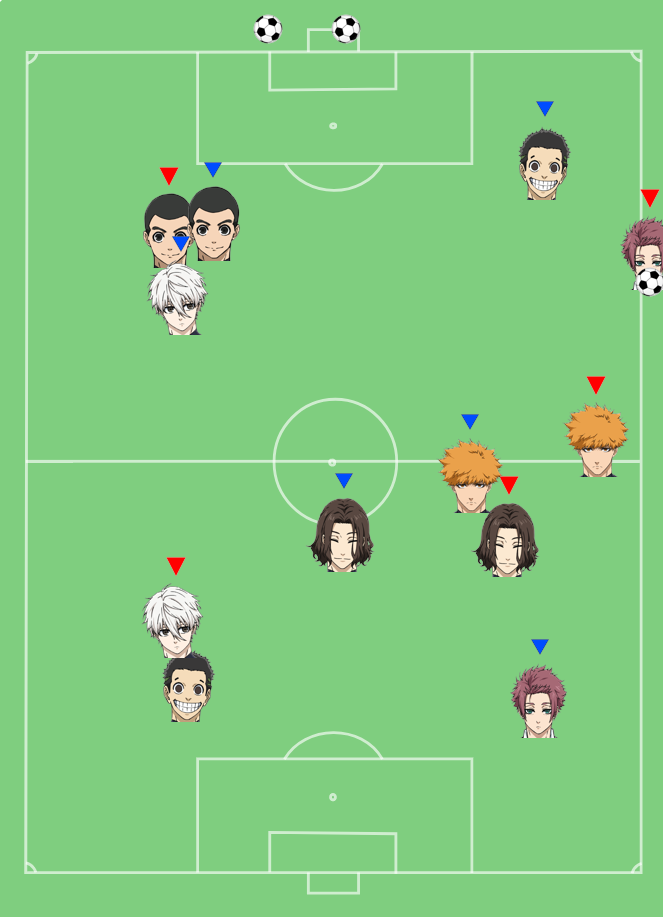
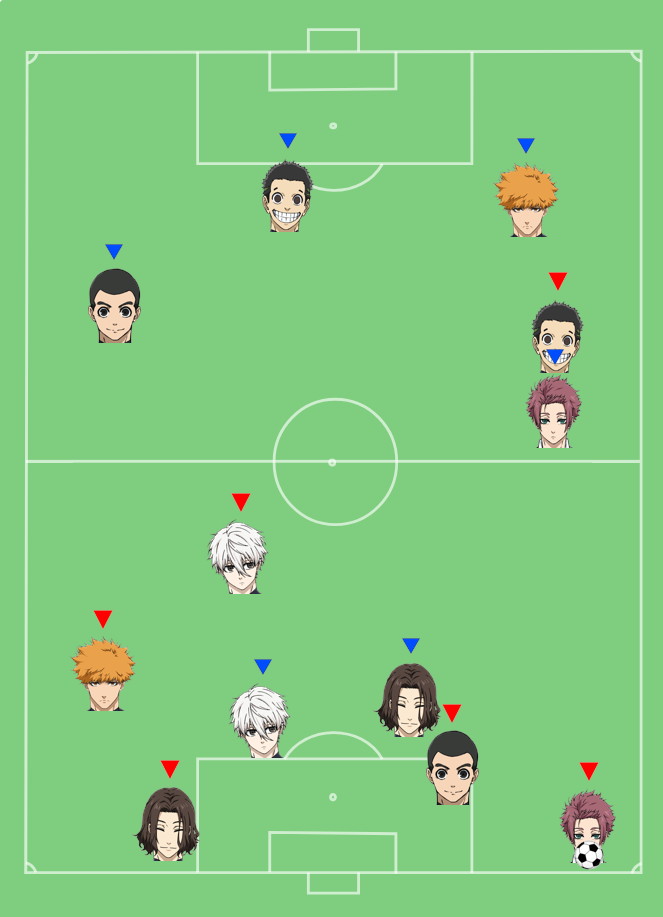
reposition players after a goal is scored

diff --git a/carousel.py b/carousel.py
@@ -26,13 +26,34 @@ class Carousel(View):
 
 
 class Game(View):
-    def __init__(self,  players, selected_player, ball, match, score_message):
+    def __init__(self, players, selected_player, match, score_message, img_result, field):
         super().__init__()
         self.players = players
         self.selected_player = selected_player
-        self.ball = ball
+        self.ball = Ball(
+            (self.selected_player.position[0] - 13, self.selected_player.position[1] + 15), "img/ball.png")
         self.match = match
         self.score_message = score_message
+        self.img_result = img_result
+        self.field = field
+
+    def reposition_players(self):
+        for player in self.players:
+            player.reposition()
+
+    def start_game(self):
+        self.ball.position = (
+            self.selected_player.position[0] - 13, self.selected_player.position[1] + 15)
+        superposer_images(self.img_result, self.field, self.players)
+        put_ball(self.img_result, self.ball.position)
+
+    def restart_game(self):
+        clear_field(self.field, self.img_result)
+        self.reposition_players()
+        self.ball.position = (
+            self.selected_player.position[0] - 13, self.selected_player.position[1] + 15)
+        superposer_images(self.img_result, self.field, self.players)
+        put_ball(self.img_result, self.ball.position)
 
     @discord.ui.button(emoji="⬅")
     async def button_left(self, interaction: Interaction, button: Button):
@@ -72,8 +93,7 @@ class Game(View):
     @discord.ui.button(label="Shoot ⚽", style=discord.ButtonStyle.primary, row=2)
     async def button_shoot(self, interaction: Interaction, button: Button):
         random_x = random.randint(240, 440)
-        interception_image_path = "img/red_circle.png"
-        put_ball(img_result,  (random_x, 14))
+
         pixels = get_pixels_on_line(self.ball.position, (random_x, 14))
         intercepted = False
 
@@ -81,42 +101,29 @@ class Game(View):
         for i in pixels:
             shifted_center = (closest_player(
                 self.players, i).position[0]-17, closest_player(self.players, i).position[1]-17)
-
+            closest_enemy_player = closest_player(self.players, i)
             # Check if the closest player (excluding the selected player) is within the circle of radius 50 around the pixel
-            if closest_player(self.players, i) != self.selected_player and shifted_center in get_pixels_on_circle(i, 35):
-                # Player intercepts the ball
-                print("intercepted by: ", closest_player(self.players, i).name)
-                print("ballon position: " + str(i))
-                print("closest: " + str(closest_player(self.players, i).position))
-                await interaction.channel.send(content="INTERCEPTION par " + closest_player(self.players, i).name + " !")
+            if closest_enemy_player != self.selected_player and closest_enemy_player.team.name != self.selected_player.team.name and shifted_center in get_pixels_on_circle(i, 35):
+
+                await interaction.channel.send(content="INTERCEPTION par " + closest_enemy_player.name.upper() + f"({closest_enemy_player.team.name})" + " !")
                 intercepted = True
+
                 break
 
         if intercepted == False:
             # Ball reaches the target position without interception (goal)
+            put_ball(self.img_result,  (random_x, 14))
             self.match.team_blue.goal()
+            self.restart_game()
             # await self.score_message.edit(content=f"{self.match.team_blue.score}to{self.match.team_red.score}")
             await interaction.channel.send(content=f"GOAL by {self.selected_player.name.upper()} ! {self.match.team_blue.score} to {self.match.team_red.score}")
 
-        # # Add code to make player hitbox appear
-        # img_result_with_hitboxes = Image.open(img_result).convert("RGBA")
-        # for player in self.players:
-        #     hitbox_radius = 50 // 2
-        #     hitbox_diameter = 50
-        #     hitbox_img = Image.open(
-        #         "img/red_circle.png").convert("RGBA").resize((hitbox_diameter, hitbox_diameter))
-        #     player_hitbox_position = (
-        #         player.position[0] - hitbox_radius, player.position[1] - hitbox_radius)
-        #     img_result_with_hitboxes.paste(
-        #         hitbox_img, player_hitbox_position, hitbox_img)
-        # img_result_with_hitboxes.save(img_result)
-
-        await interaction.response.edit_message(attachments=[discord.File(img_result)])
+        await interaction.response.edit_message(attachments=[discord.File(self.img_result)])
 
     @discord.ui.button(label="Pass ⚽", style=discord.ButtonStyle.green, row=2)
     async def button_pass(self, interaction: Interaction, button: Button):
-        self.selected_player = closest_player(
-            self.players, self.selected_player.position)
+        self.selected_player = closest_ally_player(
+            self.players, self.selected_player)
         superposer_images(img_result, field, (self.players))
         self.ball.position = (
             self.selected_player.position[0]-13, self.selected_player.position[1]+15)

diff --git a/utils.py b/utils.py
@@ -88,6 +88,9 @@ class Player:
             self.position = (
                 self.position[0], self.position[1] + self.movement_speed)
 
+    def reposition(self):
+        self.position = (random.randint(23, 640), random.randint(51, 873))
+
 
 emoji = "img/bachira_icon.png"
 field = "img/field.png"
@@ -193,6 +196,21 @@ def closest_player(players, position):
         distance = math.sqrt(
             (player.position[0] - position[0]) ** 2 + (player.position[1] - position[1]) ** 2)
         if (distance < closest_distance and distance != 0):
+            closest_distance = distance
+            closest_player = player
+
+    return closest_player
+
+
+def closest_ally_player(players, selected_player):
+    closest_distance = math.inf
+    closest_player = None
+
+    for player in players:
+        distance = math.sqrt(
+            (player.position[0] - selected_player.position[0]) ** 2 + (player.position[1] - selected_player.position[1]) ** 2)
+        if (distance < closest_distance and distance != 0 and player.team.name == selected_player.team.name):
+            print(f"color team of passed :{player.team.name} ")
             closest_distance = distance
             closest_player = player
 
